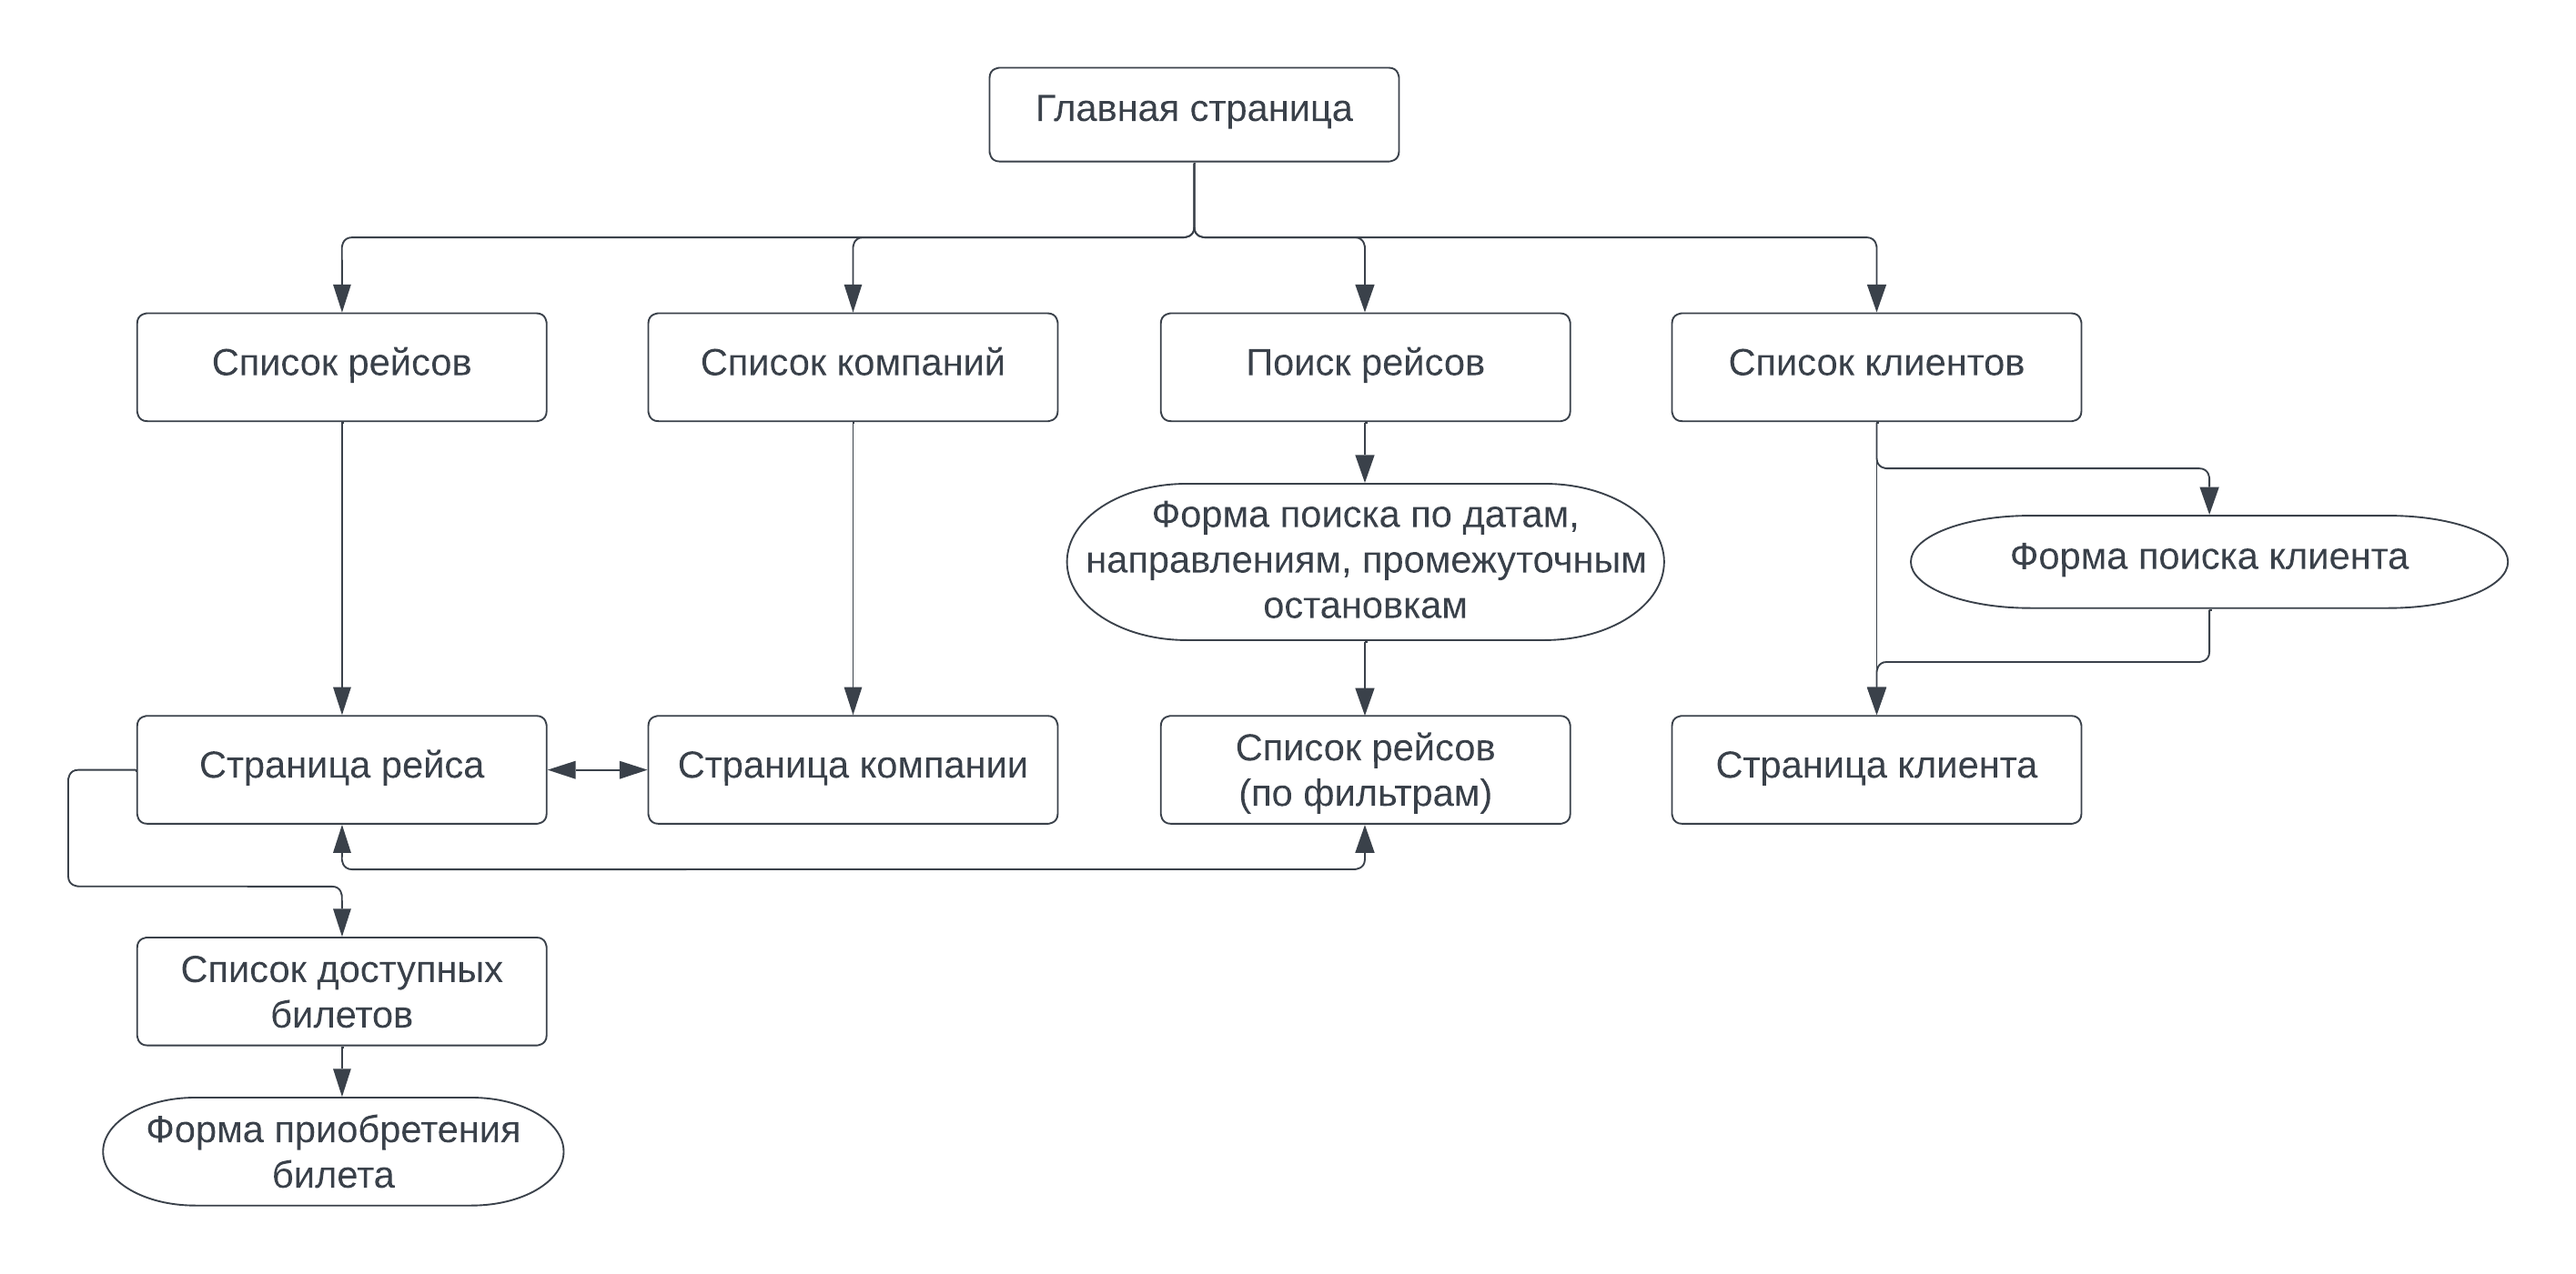
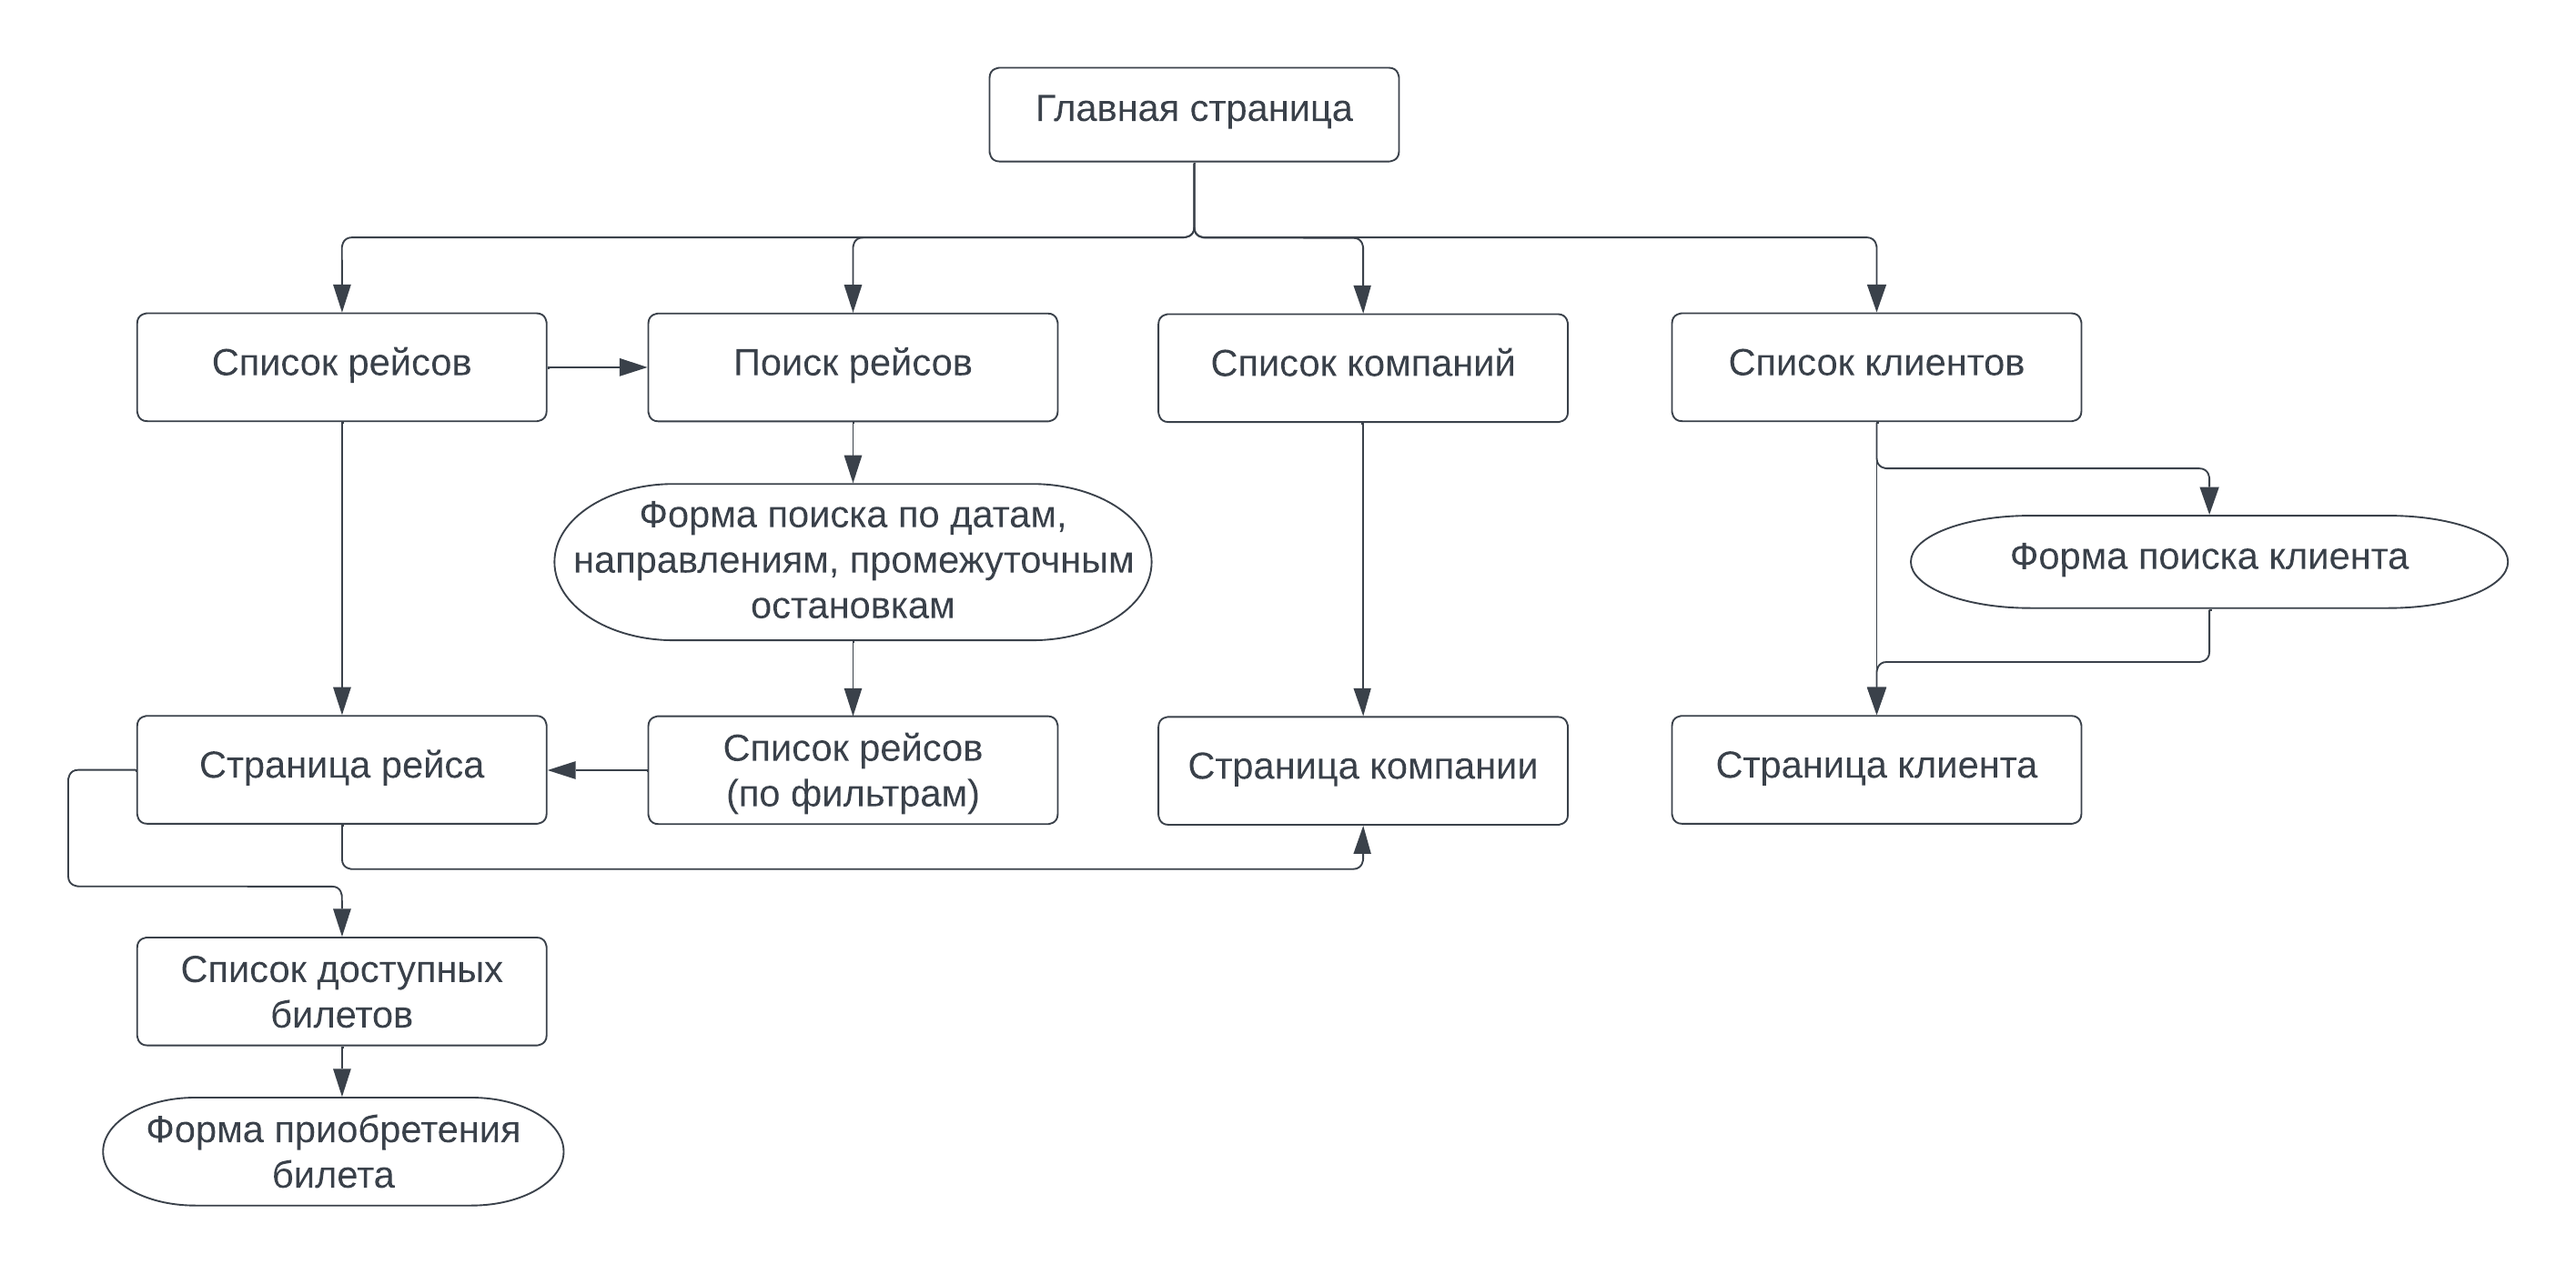
Added content description

diff --git a/README.md b/README.md
@@ -3,5 +3,64 @@
 ## Описание страниц
 ![content](img/content.png)
 
+С любой страницы можно перейти на главную.
+
+### Главная страница
+
+* Ссылка на список всех существующих рейсов
+* Ссылка на страницу поиска рейсов с учетом фильтров (по датам, направлениям, промежуточным остановкам)
+* Ссылка на список всех компаний
+* Ссылка на список всех клиентов
+
+### Список рейсов
+
+* Представляет собой таблицу, содержащую информацию обо всех рейсах
+* Каждая строка ведет на соответствующую ей страницу выбранного рейса
+* Можно также перейти на страницу поиска рейсов по ссылке
+* Имеется кнопка для создания нового рейса
+
+### Поиск рейсов
+
+* Содержит форму, которая позволяет найти рейсы, удовлетворяющие фильтрам
+* Можно указать дату и время отправления/прибытия, пункты отправления и прибытия, промежуточные остановки
+* Результат поиска будет выдан в виде страницы списка рейсов, где строками таблицы уже будут только те рейсы, что удовлетворяют критериям поиска
+
+### Страница рейса
+
+* Содержит подробную информацию о рейсе, в том числе время прибытия во все промежуточные остановки
+* Ссылка на страницу компании, выполняющую данный рейс
+* Ссылка на страницу списка доступных на этот рейс билетов
+
+### Список билетов
+
+* Представляет собой список билетов (доступных мест), которые можно купить
+* Содержит форму для приобретения билета
+* Если указанные данные клиента не присутствуют в базе, автоматически создается новый клиент
+
+### Список клиентов
+
+* Представляет собой список всех зарегистрированных в системе клиентов
+* Имеется кнопка для перехода на форму создания нового клиента
+* Имеется кнопка для перехода на форму поиска клиента по фильтрам
+* Каждая строка списка есть гиперссылка на страницу клиента
+
+### Страница клиента
+
+* Подробная информация о клиенте: полные ФИО, дата рождения, электронная почта, телефон, список всех приобретенных когда-либо билетов
+* Кнопка для редактирования информации о клиенте
+* Кнопка для удаления данного клиента
+
+### Список компаний
+
+* Представляет собой список всех зарегистрированных в системе компаний
+* Каждая строка списка есть гиперссылка на страницу выбранной компании
+* Имеется кнопка для перехода на форму создания новой компании
+
+### Страница компании
+
+* Подробная информация о компании: наименование, дата создания, список рейсов данной компании
+* Кнопка для редактирования информации о компании
+* Кнопка для удаления компании
+
 ## Схема базы данных
 ![db](img/db.png)
